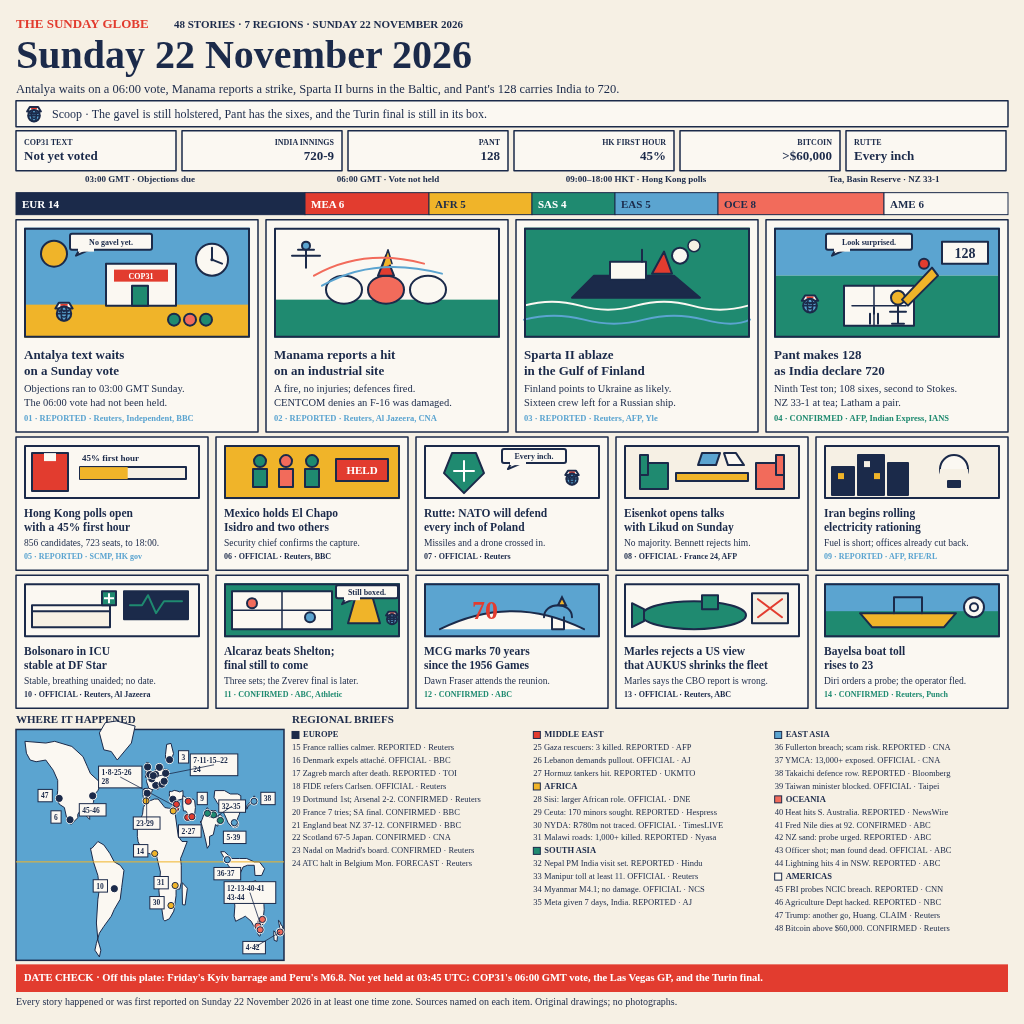
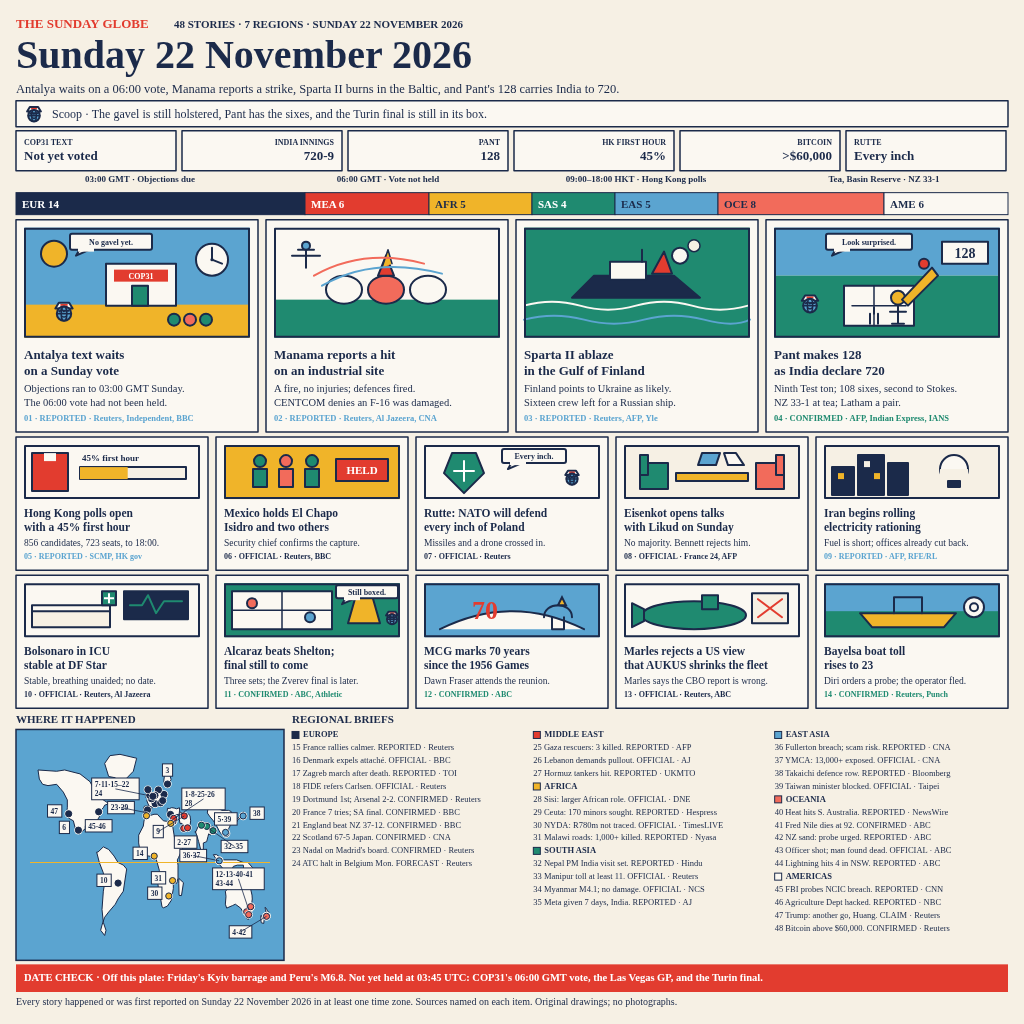
Clip the map inside its padded card and write entry.png from /tmp.
Land, pins, labels and the equator now share the other cards' 8px inset
and a clipPath, so South America and the 4-42 label no longer cross into
DATE CHECK. Chrome screenshots under /tmp, drops the crashing background
flag, and copies entry.png to MAKEFUN_OUTPUT_DIR when the repo is read-only.

Changed region(s): [[0.0, 0.6875, 0.2812, 0.9375]]

diff --git a/poster.html b/poster.html
@@ -144,7 +144,7 @@
 <text x="824" y="697.46" font-family="Inter, "Liberation Sans", sans-serif" font-size="8" font-weight="700" fill="#1F8A70" text-anchor="start" stroke="none">14 · CONFIRMED · Reuters, Punch</text>
 <text x="16" y="723.16" font-family="Inter, "Liberation Sans", sans-serif" font-size="11" font-weight="700" fill="#1B2A4A" text-anchor="start" stroke="none">WHERE IT HAPPENED</text>
 <text x="292" y="723.16" font-family="Inter, "Liberation Sans", sans-serif" font-size="11" font-weight="700" fill="#1B2A4A" text-anchor="start" stroke="none">REGIONAL BRIEFS</text>
-<rect x="16" y="729.46" width="268" height="230.89" fill="#5BA4D0" stroke="#1B2A4A" stroke-width="1.5"/><path d="M24.93,741.34L45.78,743.04L54.71,741.34L71.83,746.44L83,756.62L87.47,766.81L90.44,773.6L97.89,780.39L102.36,783.79L105.33,782.09L108.31,783.79L99.38,787.18L97.89,790.58L94.91,793.97L93.42,802.46L89.7,809.25L89.7,819.44L83,812.65L80.02,810.95L77.79,814.35L77.79,817.74L71.09,824.53L68.11,821.14L66.62,817.74L64.39,807.56L59.18,804.16L56.94,797.37L57.69,790.58L57.69,780.39L53.22,770.21L45.78,760.02L36.1,761.72L30.14,760.02L26.42,753.23L24.93,741.34Z" fill="#FBF8F2" stroke="#1B2A4A" stroke-width="1" stroke-linejoin="round"/><path d="M91.93,848.3L97.89,841.51L103.84,844.91L109.8,853.39L114.27,861.88L120.22,865.28L123.94,870.37L121.71,887.35L120.22,899.23L114.27,909.42L111.29,916.21L103.84,926.4L99.38,933.19L96.4,943.37L94.91,950.16L99.38,956.95L100.87,950.16L97.89,939.98L96.4,923L97.89,899.23L99.38,889.05L97.89,875.46L93.42,861.88L90.44,848.3Z" fill="#FBF8F2" stroke="#1B2A4A" stroke-width="1" stroke-linejoin="round"/><path d="M145.38,777.34L145.91,774.28L146.13,769.19L145.38,765.45L146.58,762.4L148.81,762.74L148.66,767.66L150.15,771.22L151.34,772.75L151.19,774.96L150.45,776.15L148.36,777L146.13,777.17Z" fill="#FBF8F2" stroke="#1B2A4A" stroke-width="1" stroke-linejoin="round"/><path d="M143,790.24L143.15,796.52L144.64,799.07L145.83,800.76L148.66,799.92L150.15,796.01L152.46,789.9L151.94,788.37L148.66,788.2L143.9,788.54L143,790.24Z" fill="#FBF8F2" stroke="#1B2A4A" stroke-width="1" stroke-linejoin="round"/><path d="M146.58,780.39L148.88,777.68L151.19,775.3L152.53,774.62L153.42,772.92L155.06,771.05L156.1,768.68L157.59,769.19L160.57,769.53L164.52,769.19L168.02,769.53L167.87,776.15L166.82,779.03L166.53,783.45L164.29,785.48L162.06,786.16L161.02,785.15L160.12,784.47L159.23,784.81L159.08,787.52L157.74,789.56L156.85,787.18L155.51,787.69L153.87,788.37L152.23,789.73L148.81,788.2L146.58,781.75Z" fill="#FBF8F2" stroke="#1B2A4A" stroke-width="1" stroke-linejoin="round"/><path d="M156.03,769.02L156.4,765.45L158.11,763.75L159.6,766.64L161.17,768.17L159.38,769.19L157.44,769.19L156.4,768.85Z" fill="#FBF8F2" stroke="#1B2A4A" stroke-width="1" stroke-linejoin="round"/><path d="M169.36,793.63L169.5,791.26L171.59,791.6L174.19,790.41L176.95,790.92L179.78,791.94L182.9,790.58L183.2,798.73L177.1,800.42L173.82,800.59L171.74,800.42L169.5,799.41L169.36,793.97Z" fill="#FBF8F2" stroke="#1B2A4A" stroke-width="1" stroke-linejoin="round"/><path d="M137.34,836.42L138.09,841.51L141.07,848.3L142.56,851.7L145.53,853.39L148.51,853.39L152.98,854.58L154.84,854.75L156.55,854.75L157.15,858.49L160.42,872.07L158.93,890.74L159.68,899.23L161.91,909.42L163.4,919.6L164.89,920.96L169.36,918.76L173.82,911.12L174.57,906.02L176.06,895.84L176.06,889.05L179.78,889.05L181.27,882.25L181.27,865.28L180.52,858.49L182.01,855.09L187.22,841.51L182.01,841.51L178.29,836.42L174.57,809.25L172.33,808.4L168.61,808.23L164.89,807.56L158.19,799.07L154.47,799.07L150,800.76L148.51,801.61L145.83,800.76L146.13,802.12L143.3,807.56L142.56,814.35L137.34,826.23L137.34,836.42Z" fill="#FBF8F2" stroke="#1B2A4A" stroke-width="1" stroke-linejoin="round"/><path d="M175.01,809.25L175.46,808.91L175.53,805.52L176.2,804.84L176.65,803.14L177.1,805.18L176.95,808.91L176.35,811.8L175.46,811.63L175.16,809.25Z" fill="#FBF8F2" stroke="#1B2A4A" stroke-width="1" stroke-linejoin="round"/><path d="M182.76,795.67L185.73,797.37L187.97,799.07L190.2,799.07L193.18,799.07L194.67,800.76L195.41,807.56L194.67,814.35L193.18,816.21L190.94,815.7L188.71,815.19L185.73,810.95L183.5,810.95L182.76,805.86L182.76,795.67Z" fill="#FBF8F2" stroke="#1B2A4A" stroke-width="1" stroke-linejoin="round"/><path d="M187.48,818L187.52,817.15L187.71,816.81L187.86,817.32L187.78,818.08L187.56,818.17Z" fill="#FBF8F2" stroke="#1B2A4A" stroke-width="1" stroke-linejoin="round"/><path d="M200.62,821.14L202.11,826.23L204.34,834.72L207.32,848.3L209.56,844.91L209.56,836.42L213.28,834.72L214.77,827.93L215.51,824.53L217.74,826.23L218.49,822.83L217,817.74L212.53,816.04L209.56,810.95L207.32,807.56L205.09,810.95L202.11,819.44L200.62,822.83Z" fill="#FBF8F2" stroke="#1B2A4A" stroke-width="1" stroke-linejoin="round"/><path d="M218.12,823.68L219.23,824.53L221.62,824.19L222.21,820.29L221.84,816.04L219.98,814.35L218.49,816.04L218.34,820.29Z" fill="#FBF8F2" stroke="#1B2A4A" stroke-width="1" stroke-linejoin="round"/><path d="M209.56,817.06L209.56,810.44L215.81,810.61L215.81,816.89L212.53,817.4Z" fill="#FBF8F2" stroke="#1B2A4A" stroke-width="1" stroke-linejoin="round"/><path d="M214.77,790.58L224.44,790.58L230.4,793.97L237.84,793.97L240.82,795.67L240.82,807.56L239.33,814.35L237.84,817.74L236.36,822.83L235.31,823.51L234.12,825.21L231.14,826.23L228.17,822.83L224.44,814.35L220.72,807.56L217,802.46L214.02,797.37Z" fill="#FBF8F2" stroke="#1B2A4A" stroke-width="1" stroke-linejoin="round"/><path d="M234.76,824.28L234.9,823.77L235.2,823.68L235.28,824.19L235.05,824.53L234.83,824.45Z" fill="#FBF8F2" stroke="#1B2A4A" stroke-width="1" stroke-linejoin="round"/><path d="M246.78,809.25L248.27,805.86L250.5,804.16L252.73,802.46L253.63,803.14L254.37,802.12L255.12,801.78L254.97,796.52L253.85,796.01L253.11,799.07L251.24,800.76L249.76,802.46L248.27,804.16L246.78,805.86Z" fill="#FBF8F2" stroke="#1B2A4A" stroke-width="1" stroke-linejoin="round"/><path d="M227.09,859.88L227.12,859.37L227.39,859.37L227.5,859.81L227.31,859.93Z" fill="#FBF8F2" stroke="#1B2A4A" stroke-width="1" stroke-linejoin="round"/><path d="M234.12,899.23L240.82,892.44L246.03,885.65L251.24,882.25L255.71,880.56L257.94,885.65L260.92,889.05L263.9,904.33L264.2,909.42L263.3,917.91L262.86,919.94L262.11,925.04L260.18,926.74L257.94,927.75L254.22,927.07L251.24,921.3L245.29,916.21L242.31,917.91L235.61,921.3L234.12,916.21L234.87,906.02Z" fill="#FBF8F2" stroke="#1B2A4A" stroke-width="1" stroke-linejoin="round"/><path d="M257.65,930.98L260.33,930.81L260.18,935.9L259.06,936.07L257.65,933.53Z" fill="#FBF8F2" stroke="#1B2A4A" stroke-width="1" stroke-linejoin="round"/><path d="M259.84,929.2L260.51,929.2L260.55,930.39L259.88,930.47Z" fill="#FBF8F2" stroke="#1B2A4A" stroke-width="1" stroke-linejoin="round"/><path d="M278.42,920.28L279.91,921.64L281.39,925.55L282.66,926.06L282.51,931.83L281.17,932.51L279.83,932.42L279.98,928.94L278.94,923.34Z" fill="#FBF8F2" stroke="#1B2A4A" stroke-width="1" stroke-linejoin="round"/><path d="M273.88,930.81L275.22,932.34L277.45,936.58L277,941.34L274.17,940.32L273.73,934.88Z" fill="#FBF8F2" stroke="#1B2A4A" stroke-width="1" stroke-linejoin="round"/><path d="M99.38,732.86L105.33,722.67L116.5,720.97L135.11,726.06L131.39,743.04L117.24,760.02L111.29,751.53L103.84,749.83L99.38,732.86Z" fill="#FBF8F2" stroke="#1B2A4A" stroke-width="1" stroke-linejoin="round"/><path d="M165.63,759.09L168.24,759.2L171.59,758.83L173.52,753.57L170.99,743.38L166.68,744.4L165.48,754.59Z" fill="#FBF8F2" stroke="#1B2A4A" stroke-width="1" stroke-linejoin="round"/><path d="M182.23,882.59L187.37,888.2L185.14,905L182.46,904.66L182.16,889.05Z" fill="#FBF8F2" stroke="#1B2A4A" stroke-width="1" stroke-linejoin="round"/><path d="M220.72,851.7L228.17,865.28L235.61,875.46L239.33,875.46L243.06,866.98L247.52,865.28L254.22,865.28L254.97,875.46L261.67,875.46L264.64,868.67L259.43,861.88L254.22,861.88L246.78,858.49L239.33,858.49L231.89,858.49L224.44,851.7L220.72,851.7Z" fill="#FBF8F2" stroke="#1B2A4A" stroke-width="1" stroke-linejoin="round"/><path d="M16 861.88 H284" stroke="#F0B429" stroke-width="1" fill="none"/><circle cx="172.85" cy="799.24" r="4.2" fill="#FBF8F2" stroke="none"/><circle cx="172.85" cy="799.24" r="3.1" fill="#1B2A4A" stroke="#1B2A4A" stroke-width="1"/><circle cx="187.67" cy="817.4" r="4.2" fill="#FBF8F2" stroke="none"/><circle cx="187.67" cy="817.4" r="3.1" fill="#E23C2F" stroke="#1B2A4A" stroke-width="1"/><circle cx="169.58" cy="759.68" r="4.2" fill="#FBF8F2" stroke="none"/><circle cx="169.58" cy="759.68" r="3.1" fill="#1B2A4A" stroke="#1B2A4A" stroke-width="1"/><circle cx="280.13" cy="932" r="4.2" fill="#FBF8F2" stroke="none"/><circle cx="280.13" cy="932" r="3.1" fill="#F26B5B" stroke="#1B2A4A" stroke-width="1"/><circle cx="235.02" cy="824.02" r="4.2" fill="#FBF8F2" stroke="none"/><circle cx="235.02" cy="824.02" r="3.1" fill="#5BA4D0" stroke="#1B2A4A" stroke-width="1"/><circle cx="70.05" cy="819.78" r="4.2" fill="#FBF8F2" stroke="none"/><circle cx="70.05" cy="819.78" r="3.1" fill="#1B2A4A" stroke="#1B2A4A" stroke-width="1"/><circle cx="165.63" cy="773.26" r="4.2" fill="#FBF8F2" stroke="none"/><circle cx="165.63" cy="773.26" r="3.1" fill="#1B2A4A" stroke="#1B2A4A" stroke-width="1"/><circle cx="176.2" cy="807.89" r="4.2" fill="#FBF8F2" stroke="none"/><circle cx="176.2" cy="807.89" r="3.1" fill="#E23C2F" stroke="#1B2A4A" stroke-width="1"/><circle cx="188.26" cy="801.27" r="4.2" fill="#FBF8F2" stroke="none"/><circle cx="188.26" cy="801.27" r="3.1" fill="#E23C2F" stroke="#1B2A4A" stroke-width="1"/><circle cx="114.34" cy="888.71" r="4.2" fill="#FBF8F2" stroke="none"/><circle cx="114.34" cy="888.71" r="3.1" fill="#1B2A4A" stroke="#1B2A4A" stroke-width="1"/><circle cx="155.73" cy="785.32" r="4.2" fill="#FBF8F2" stroke="none"/><circle cx="155.73" cy="785.32" r="3.1" fill="#1B2A4A" stroke="#1B2A4A" stroke-width="1"/><circle cx="257.94" cy="926.06" r="4.2" fill="#FBF8F2" stroke="none"/><circle cx="257.94" cy="926.06" r="3.1" fill="#F26B5B" stroke="#1B2A4A" stroke-width="1"/><circle cx="261" cy="921.81" r="4.2" fill="#FBF8F2" stroke="none"/><circle cx="261" cy="921.81" r="3.1" fill="#F26B5B" stroke="#1B2A4A" stroke-width="1"/><circle cx="154.69" cy="853.56" r="4.2" fill="#FBF8F2" stroke="none"/><circle cx="154.69" cy="853.56" r="3.1" fill="#F0B429" stroke="#1B2A4A" stroke-width="1"/><circle cx="151.71" cy="778.86" r="4.2" fill="#FBF8F2" stroke="none"/><circle cx="151.71" cy="778.86" r="3.1" fill="#1B2A4A" stroke="#1B2A4A" stroke-width="1"/><circle cx="159.38" cy="767.32" r="4.2" fill="#FBF8F2" stroke="none"/><circle cx="159.38" cy="767.32" r="3.1" fill="#1B2A4A" stroke="#1B2A4A" stroke-width="1"/><circle cx="161.91" cy="784.13" r="4.2" fill="#FBF8F2" stroke="none"/><circle cx="161.91" cy="784.13" r="3.1" fill="#1B2A4A" stroke="#1B2A4A" stroke-width="1"/><circle cx="164.14" cy="781.24" r="4.2" fill="#FBF8F2" stroke="none"/><circle cx="164.14" cy="781.24" r="3.1" fill="#1B2A4A" stroke="#1B2A4A" stroke-width="1"/><circle cx="155.58" cy="774.45" r="4.2" fill="#FBF8F2" stroke="none"/><circle cx="155.58" cy="774.45" r="3.1" fill="#1B2A4A" stroke="#1B2A4A" stroke-width="1"/><circle cx="151.71" cy="778.86" r="4.2" fill="#FBF8F2" stroke="none"/><circle cx="151.71" cy="778.86" r="3.1" fill="#1B2A4A" stroke="#1B2A4A" stroke-width="1"/><circle cx="149.78" cy="774.45" r="4.2" fill="#FBF8F2" stroke="none"/><circle cx="149.78" cy="774.45" r="3.1" fill="#1B2A4A" stroke="#1B2A4A" stroke-width="1"/><circle cx="147.62" cy="766.98" r="4.2" fill="#FBF8F2" stroke="none"/><circle cx="147.62" cy="766.98" r="3.1" fill="#1B2A4A" stroke="#1B2A4A" stroke-width="1"/><circle cx="147.25" cy="793.29" r="4.2" fill="#FBF8F2" stroke="none"/><circle cx="147.25" cy="793.29" r="3.1" fill="#1B2A4A" stroke="#1B2A4A" stroke-width="1"/><circle cx="153.28" cy="775.64" r="4.2" fill="#FBF8F2" stroke="none"/><circle cx="153.28" cy="775.64" r="3.1" fill="#1B2A4A" stroke="#1B2A4A" stroke-width="1"/><circle cx="175.68" cy="808.4" r="4.2" fill="#FBF8F2" stroke="none"/><circle cx="175.68" cy="808.4" r="3.1" fill="#E23C2F" stroke="#1B2A4A" stroke-width="1"/><circle cx="176.43" cy="804.33" r="4.2" fill="#FBF8F2" stroke="none"/><circle cx="176.43" cy="804.33" r="3.1" fill="#E23C2F" stroke="#1B2A4A" stroke-width="1"/><circle cx="191.91" cy="816.72" r="4.2" fill="#FBF8F2" stroke="none"/><circle cx="191.91" cy="816.72" r="3.1" fill="#E23C2F" stroke="#1B2A4A" stroke-width="1"/><circle cx="173.23" cy="810.95" r="4.2" fill="#FBF8F2" stroke="none"/><circle cx="173.23" cy="810.95" r="3.1" fill="#F0B429" stroke="#1B2A4A" stroke-width="1"/><circle cx="146.05" cy="800.93" r="4.2" fill="#FBF8F2" stroke="none"/><circle cx="146.05" cy="800.93" r="3.1" fill="#F0B429" stroke="#1B2A4A" stroke-width="1"/><circle cx="170.99" cy="905.51" r="4.2" fill="#FBF8F2" stroke="none"/><circle cx="170.99" cy="905.51" r="3.1" fill="#F0B429" stroke="#1B2A4A" stroke-width="1"/><circle cx="175.16" cy="885.48" r="4.2" fill="#FBF8F2" stroke="none"/><circle cx="175.16" cy="885.48" r="3.1" fill="#F0B429" stroke="#1B2A4A" stroke-width="1"/><circle cx="213.5" cy="814.86" r="4.2" fill="#FBF8F2" stroke="none"/><circle cx="213.5" cy="814.86" r="3.1" fill="#1F8A70" stroke="#1B2A4A" stroke-width="1"/><circle cx="219.98" cy="820.63" r="4.2" fill="#FBF8F2" stroke="none"/><circle cx="219.98" cy="820.63" r="3.1" fill="#1F8A70" stroke="#1B2A4A" stroke-width="1"/><circle cx="220.42" cy="820.46" r="4.2" fill="#FBF8F2" stroke="none"/><circle cx="220.42" cy="820.46" r="3.1" fill="#1F8A70" stroke="#1B2A4A" stroke-width="1"/><circle cx="207.47" cy="813.33" r="4.2" fill="#FBF8F2" stroke="none"/><circle cx="207.47" cy="813.33" r="3.1" fill="#1F8A70" stroke="#1B2A4A" stroke-width="1"/><circle cx="227.27" cy="859.59" r="4.2" fill="#FBF8F2" stroke="none"/><circle cx="227.27" cy="859.59" r="3.1" fill="#5BA4D0" stroke="#1B2A4A" stroke-width="1"/><circle cx="227.31" cy="859.68" r="4.2" fill="#FBF8F2" stroke="none"/><circle cx="227.31" cy="859.68" r="3.1" fill="#5BA4D0" stroke="#1B2A4A" stroke-width="1"/><circle cx="254" cy="801.27" r="4.2" fill="#FBF8F2" stroke="none"/><circle cx="254" cy="801.27" r="3.1" fill="#5BA4D0" stroke="#1B2A4A" stroke-width="1"/><circle cx="234.35" cy="822.66" r="4.2" fill="#FBF8F2" stroke="none"/><circle cx="234.35" cy="822.66" r="3.1" fill="#5BA4D0" stroke="#1B2A4A" stroke-width="1"/><circle cx="257.94" cy="926.06" r="4.2" fill="#FBF8F2" stroke="none"/><circle cx="257.94" cy="926.06" r="3.1" fill="#F26B5B" stroke="#1B2A4A" stroke-width="1"/><circle cx="262.56" cy="919.43" r="4.2" fill="#FBF8F2" stroke="none"/><circle cx="262.56" cy="919.43" r="3.1" fill="#F26B5B" stroke="#1B2A4A" stroke-width="1"/><circle cx="280.13" cy="932" r="4.2" fill="#FBF8F2" stroke="none"/><circle cx="280.13" cy="932" r="3.1" fill="#F26B5B" stroke="#1B2A4A" stroke-width="1"/><circle cx="260.18" cy="929.79" r="4.2" fill="#FBF8F2" stroke="none"/><circle cx="260.18" cy="929.79" r="3.1" fill="#F26B5B" stroke="#1B2A4A" stroke-width="1"/><circle cx="262.41" cy="919.43" r="4.2" fill="#FBF8F2" stroke="none"/><circle cx="262.41" cy="919.43" r="3.1" fill="#F26B5B" stroke="#1B2A4A" stroke-width="1"/><circle cx="92.68" cy="795.84" r="4.2" fill="#FBF8F2" stroke="none"/><circle cx="92.68" cy="795.84" r="3.1" fill="#1B2A4A" stroke="#1B2A4A" stroke-width="1"/><circle cx="92.68" cy="795.84" r="4.2" fill="#FBF8F2" stroke="none"/><circle cx="92.68" cy="795.84" r="3.1" fill="#1B2A4A" stroke="#1B2A4A" stroke-width="1"/><circle cx="59.18" cy="798.39" r="4.2" fill="#FBF8F2" stroke="none"/><circle cx="59.18" cy="798.39" r="3.1" fill="#1B2A4A" stroke="#1B2A4A" stroke-width="1"/><rect x="98.55" y="766.12" width="43.35" height="21.75" fill="#FBF8F2" stroke="#1B2A4A" stroke-width="1"/><path d="M174.88 806.16 L120.22 777" stroke="#1B2A4A" stroke-width="0.8" fill="none"/><text x="101.55" y="775.06" font-family="Inter, "Liberation Sans", sans-serif" font-size="7.5" font-weight="700" fill="#1B2A4A" text-anchor="start" stroke="none">1·8·25·26</text><text x="101.55" y="784.43" font-family="Inter, "Liberation Sans", sans-serif" font-size="7.5" font-weight="700" fill="#1B2A4A" text-anchor="start" stroke="none">28</text><rect x="178.49" y="824.87" width="22.6" height="12.38" fill="#FBF8F2" stroke="#1B2A4A" stroke-width="1"/><text x="181.49" y="833.81" font-family="Inter, "Liberation Sans", sans-serif" font-size="7.5" font-weight="700" fill="#1B2A4A" text-anchor="start" stroke="none">2·27</text><rect x="178.5" y="750.69" width="10.15" height="12.38" fill="#FBF8F2" stroke="#1B2A4A" stroke-width="1"/><text x="181.5" y="759.63" font-family="Inter, "Liberation Sans", sans-serif" font-size="7.5" font-weight="700" fill="#1B2A4A" text-anchor="start" stroke="none">3</text><rect x="242.83" y="941.41" width="22.6" height="12.38" fill="#FBF8F2" stroke="#1B2A4A" stroke-width="1"/><path d="M280.13 932 L254.13 947.6" stroke="#1B2A4A" stroke-width="0.8" fill="none"/><text x="245.83" y="950.35" font-family="Inter, "Liberation Sans", sans-serif" font-size="7.5" font-weight="700" fill="#1B2A4A" text-anchor="start" stroke="none">4·42</text><rect x="223.38" y="831.16" width="22.6" height="12.38" fill="#FBF8F2" stroke="#1B2A4A" stroke-width="1"/><text x="226.38" y="840.09" font-family="Inter, "Liberation Sans", sans-serif" font-size="7.5" font-weight="700" fill="#1B2A4A" text-anchor="start" stroke="none">5·39</text><rect x="50.97" y="810.79" width="10.15" height="12.38" fill="#FBF8F2" stroke="#1B2A4A" stroke-width="1"/><text x="53.97" y="819.73" font-family="Inter, "Liberation Sans", sans-serif" font-size="7.5" font-weight="700" fill="#1B2A4A" text-anchor="start" stroke="none">6</text><rect x="190.29" y="753.93" width="47.5" height="21.75" fill="#FBF8F2" stroke="#1B2A4A" stroke-width="1"/><path d="M156.04 776.41 L214.04 764.81" stroke="#1B2A4A" stroke-width="0.8" fill="none"/><text x="193.29" y="762.87" font-family="Inter, "Liberation Sans", sans-serif" font-size="7.5" font-weight="700" fill="#1B2A4A" text-anchor="start" stroke="none">7·11·15–22</text><text x="193.29" y="772.25" font-family="Inter, "Liberation Sans", sans-serif" font-size="7.5" font-weight="700" fill="#1B2A4A" text-anchor="start" stroke="none">24</text><rect x="197.19" y="792.29" width="10.15" height="12.38" fill="#FBF8F2" stroke="#1B2A4A" stroke-width="1"/><text x="200.19" y="801.22" font-family="Inter, "Liberation Sans", sans-serif" font-size="7.5" font-weight="700" fill="#1B2A4A" text-anchor="start" stroke="none">9</text><rect x="93.19" y="879.72" width="14.3" height="12.38" fill="#FBF8F2" stroke="#1B2A4A" stroke-width="1"/><text x="96.19" y="888.66" font-family="Inter, "Liberation Sans", sans-serif" font-size="7.5" font-weight="700" fill="#1B2A4A" text-anchor="start" stroke="none">10</text><rect x="224.11" y="881.69" width="51.65" height="21.75" fill="#FBF8F2" stroke="#1B2A4A" stroke-width="1"/><path d="M260.34 923.76 L249.94 892.56" stroke="#1B2A4A" stroke-width="0.8" fill="none"/><text x="227.11" y="890.63" font-family="Inter, "Liberation Sans", sans-serif" font-size="7.5" font-weight="700" fill="#1B2A4A" text-anchor="start" stroke="none">12·13·40·41</text><text x="227.11" y="900" font-family="Inter, "Liberation Sans", sans-serif" font-size="7.5" font-weight="700" fill="#1B2A4A" text-anchor="start" stroke="none">43·44</text><rect x="133.54" y="844.58" width="14.3" height="12.38" fill="#FBF8F2" stroke="#1B2A4A" stroke-width="1"/><text x="136.54" y="853.51" font-family="Inter, "Liberation Sans", sans-serif" font-size="7.5" font-weight="700" fill="#1B2A4A" text-anchor="start" stroke="none">14</text><rect x="133.28" y="816.93" width="26.75" height="12.38" fill="#FBF8F2" stroke="#1B2A4A" stroke-width="1"/><path d="M146.65 797.11 L146.65 823.11" stroke="#1B2A4A" stroke-width="0.8" fill="none"/><text x="136.28" y="825.86" font-family="Inter, "Liberation Sans", sans-serif" font-size="7.5" font-weight="700" fill="#1B2A4A" text-anchor="start" stroke="none">23·29</text><rect x="149.84" y="896.53" width="14.3" height="12.38" fill="#FBF8F2" stroke="#1B2A4A" stroke-width="1"/><text x="152.84" y="905.46" font-family="Inter, "Liberation Sans", sans-serif" font-size="7.5" font-weight="700" fill="#1B2A4A" text-anchor="start" stroke="none">30</text><rect x="154.01" y="876.49" width="14.3" height="12.38" fill="#FBF8F2" stroke="#1B2A4A" stroke-width="1"/><text x="157.01" y="885.43" font-family="Inter, "Liberation Sans", sans-serif" font-size="7.5" font-weight="700" fill="#1B2A4A" text-anchor="start" stroke="none">31</text><rect x="218.77" y="799.93" width="26.75" height="12.38" fill="#FBF8F2" stroke="#1B2A4A" stroke-width="1"/><path d="M215.34 817.32 L232.14 806.12" stroke="#1B2A4A" stroke-width="0.8" fill="none"/><text x="221.77" y="808.87" font-family="Inter, "Liberation Sans", sans-serif" font-size="7.5" font-weight="700" fill="#1B2A4A" text-anchor="start" stroke="none">32–35</text><rect x="213.92" y="867.45" width="26.75" height="12.38" fill="#FBF8F2" stroke="#1B2A4A" stroke-width="1"/><text x="216.92" y="876.38" font-family="Inter, "Liberation Sans", sans-serif" font-size="7.5" font-weight="700" fill="#1B2A4A" text-anchor="start" stroke="none">36·37</text><rect x="260.85" y="792.29" width="14.3" height="12.38" fill="#FBF8F2" stroke="#1B2A4A" stroke-width="1"/><text x="263.85" y="801.22" font-family="Inter, "Liberation Sans", sans-serif" font-size="7.5" font-weight="700" fill="#1B2A4A" text-anchor="start" stroke="none">38</text><rect x="79.3" y="803.65" width="26.75" height="12.38" fill="#FBF8F2" stroke="#1B2A4A" stroke-width="1"/><text x="82.3" y="812.59" font-family="Inter, "Liberation Sans", sans-serif" font-size="7.5" font-weight="700" fill="#1B2A4A" text-anchor="start" stroke="none">45·46</text><rect x="38.03" y="789.4" width="14.3" height="12.38" fill="#FBF8F2" stroke="#1B2A4A" stroke-width="1"/><text x="41.03" y="798.34" font-family="Inter, "Liberation Sans", sans-serif" font-size="7.5" font-weight="700" fill="#1B2A4A" text-anchor="start" stroke="none">47</text>
+<defs><clipPath id="mapclip"><rect x="24" y="737.46" width="252" height="214.89"/></clipPath></defs><rect x="16" y="729.46" width="268" height="230.89" fill="#5BA4D0" stroke="#1B2A4A" stroke-width="1.5"/><g clip-path="url(#mapclip)"><path d="M38,769.97L56.67,771.27L64.67,769.97L80,773.88L90,781.7L94,789.52L96.67,794.73L103.33,799.94L107.33,802.55L110,801.25L112.67,802.55L104.67,805.16L103.33,807.76L100.67,810.37L99.33,816.89L96,822.1L96,829.92L90,824.7L87.33,823.4L85.33,826.01L85.33,828.61L79.33,833.83L76.67,831.22L75.33,828.61L73.33,820.79L68.67,818.19L66.67,812.98L67.33,807.76L67.33,799.94L63.33,792.12L56.67,784.3L48,785.61L42.67,784.3L39.33,779.09L38,769.97Z" fill="#FBF8F2" stroke="#1B2A4A" stroke-width="1" stroke-linejoin="round"/><path d="M98,852.07L103.33,846.86L108.67,849.47L114,855.98L118,862.5L123.33,865.11L126.67,869.02L124.67,882.05L123.33,891.17L118,898.99L115.33,904.2L108.67,912.02L104.67,917.24L102,925.05L100.67,930.27L104.67,935.48L106,930.27L103.33,922.45L102,909.42L103.33,891.17L104.67,883.35L103.33,872.92L99.33,862.5L96.67,852.07Z" fill="#FBF8F2" stroke="#1B2A4A" stroke-width="1" stroke-linejoin="round"/><path d="M145.87,797.6L146.33,795.25L146.53,791.34L145.87,788.47L146.93,786.13L148.93,786.39L148.8,790.17L150.13,792.91L151.2,794.08L151.07,795.77L150.4,796.68L148.53,797.34L146.53,797.47Z" fill="#FBF8F2" stroke="#1B2A4A" stroke-width="1" stroke-linejoin="round"/><path d="M143.73,807.5L143.87,812.32L145.2,814.28L146.27,815.58L148.8,814.93L150.13,811.93L152.2,807.24L151.73,806.07L148.8,805.94L144.53,806.2L143.73,807.5Z" fill="#FBF8F2" stroke="#1B2A4A" stroke-width="1" stroke-linejoin="round"/><path d="M146.93,799.94L149,797.86L151.07,796.03L152.27,795.51L153.07,794.21L154.53,792.77L155.47,790.95L156.8,791.34L159.47,791.6L163,791.34L166.13,791.6L166,796.68L165.07,798.9L164.8,802.29L162.8,803.85L160.8,804.37L159.87,803.59L159.07,803.07L158.27,803.33L158.13,805.42L156.93,806.98L156.13,805.16L154.93,805.55L153.47,806.07L152,807.11L148.93,805.94L146.93,800.99Z" fill="#FBF8F2" stroke="#1B2A4A" stroke-width="1" stroke-linejoin="round"/><path d="M155.4,791.21L155.73,788.47L157.27,787.17L158.6,789.39L160,790.56L158.4,791.34L156.67,791.34L155.73,791.08Z" fill="#FBF8F2" stroke="#1B2A4A" stroke-width="1" stroke-linejoin="round"/><path d="M167.33,810.11L167.47,808.28L169.33,808.54L171.67,807.63L174.13,808.02L176.67,808.8L179.47,807.76L179.73,814.02L174.27,815.32L171.33,815.45L169.47,815.32L167.47,814.54L167.33,810.37Z" fill="#FBF8F2" stroke="#1B2A4A" stroke-width="1" stroke-linejoin="round"/><path d="M138.67,842.95L139.33,846.86L142,852.07L143.33,854.68L146,855.98L148.67,855.98L152.67,856.89L154.33,857.03L155.87,857.03L156.4,859.89L159.33,870.32L158,884.65L158.67,891.17L160.67,898.99L162,906.81L163.33,907.85L167.33,906.16L171.33,900.29L172,896.38L173.33,888.56L173.33,883.35L176.67,883.35L178,878.14L178,865.11L177.33,859.89L178.67,857.29L183.33,846.86L178.67,846.86L175.33,842.95L172,822.1L170,821.45L166.67,821.32L163.33,820.79L157.33,814.28L154,814.28L150,815.58L148.67,816.23L146.27,815.58L146.53,816.62L144,820.79L143.33,826.01L138.67,835.13L138.67,842.95Z" fill="#FBF8F2" stroke="#1B2A4A" stroke-width="1" stroke-linejoin="round"/><path d="M172.4,822.1L172.8,821.84L172.87,819.23L173.47,818.71L173.87,817.41L174.27,818.97L174.13,821.84L173.6,824.05L172.8,823.92L172.53,822.1Z" fill="#FBF8F2" stroke="#1B2A4A" stroke-width="1" stroke-linejoin="round"/><path d="M179.33,811.67L182,812.98L184,814.28L186,814.28L188.67,814.28L190,815.58L190.67,820.79L190,826.01L188.67,827.44L186.67,827.05L184.67,826.66L182,823.4L180,823.4L179.33,819.49L179.33,811.67Z" fill="#FBF8F2" stroke="#1B2A4A" stroke-width="1" stroke-linejoin="round"/><path d="M183.57,828.81L183.6,828.16L183.77,827.9L183.9,828.29L183.83,828.88L183.63,828.94Z" fill="#FBF8F2" stroke="#1B2A4A" stroke-width="1" stroke-linejoin="round"/><path d="M195.33,831.22L196.67,835.13L198.67,841.65L201.33,852.07L203.33,849.47L203.33,842.95L206.67,841.65L208,836.43L208.67,833.83L210.67,835.13L211.33,832.52L210,828.61L206,827.31L203.33,823.4L201.33,820.79L199.33,823.4L196.67,829.92L195.33,832.52Z" fill="#FBF8F2" stroke="#1B2A4A" stroke-width="1" stroke-linejoin="round"/><path d="M211,833.18L212,833.83L214.13,833.57L214.67,830.57L214.33,827.31L212.67,826.01L211.33,827.31L211.2,830.57Z" fill="#FBF8F2" stroke="#1B2A4A" stroke-width="1" stroke-linejoin="round"/><path d="M203.33,828.09L203.33,823.01L208.93,823.14L208.93,827.96L206,828.35Z" fill="#FBF8F2" stroke="#1B2A4A" stroke-width="1" stroke-linejoin="round"/><path d="M208,807.76L216.67,807.76L222,810.37L228.67,810.37L231.33,811.67L231.33,820.79L230,826.01L228.67,828.61L227.33,832.52L226.4,833.05L225.33,834.35L222.67,835.13L220,832.52L216.67,826.01L213.33,820.79L210,816.89L207.33,812.98Z" fill="#FBF8F2" stroke="#1B2A4A" stroke-width="1" stroke-linejoin="round"/><path d="M225.9,833.63L226.03,833.24L226.3,833.18L226.37,833.57L226.17,833.83L225.97,833.76Z" fill="#FBF8F2" stroke="#1B2A4A" stroke-width="1" stroke-linejoin="round"/><path d="M236.67,822.1L238,819.49L240,818.19L242,816.89L242.8,817.41L243.47,816.62L244.13,816.36L244,812.32L243,811.93L242.33,814.28L240.67,815.58L239.33,816.89L238,818.19L236.67,819.49Z" fill="#FBF8F2" stroke="#1B2A4A" stroke-width="1" stroke-linejoin="round"/><path d="M219.03,860.96L219.07,860.57L219.3,860.57L219.4,860.91L219.23,861Z" fill="#FBF8F2" stroke="#1B2A4A" stroke-width="1" stroke-linejoin="round"/><path d="M225.33,891.17L231.33,885.96L236,880.74L240.67,878.14L244.67,876.83L246.67,880.74L249.33,883.35L252,895.08L252.27,898.99L251.47,905.51L251.07,907.07L250.4,910.98L248.67,912.28L246.67,913.06L243.33,912.54L240.67,908.11L235.33,904.2L232.67,905.51L226.67,908.11L225.33,904.2L226,896.38Z" fill="#FBF8F2" stroke="#1B2A4A" stroke-width="1" stroke-linejoin="round"/><path d="M246.4,915.54L248.8,915.41L248.67,919.32L247.67,919.45L246.4,917.5Z" fill="#FBF8F2" stroke="#1B2A4A" stroke-width="1" stroke-linejoin="round"/><path d="M248.37,914.17L248.97,914.17L249,915.09L248.4,915.15Z" fill="#FBF8F2" stroke="#1B2A4A" stroke-width="1" stroke-linejoin="round"/><path d="M265,907.33L266.33,908.37L267.67,911.37L268.8,911.76L268.67,916.19L267.47,916.71L266.27,916.65L266.4,913.98L265.47,909.68Z" fill="#FBF8F2" stroke="#1B2A4A" stroke-width="1" stroke-linejoin="round"/><path d="M260.93,915.41L262.13,916.58L264.13,919.84L263.73,923.49L261.2,922.71L260.8,918.54Z" fill="#FBF8F2" stroke="#1B2A4A" stroke-width="1" stroke-linejoin="round"/><path d="M104.67,763.45L110,755.63L120,754.33L136.67,758.24L133.33,771.27L120.67,784.3L115.33,777.79L108.67,776.48L104.67,763.45Z" fill="#FBF8F2" stroke="#1B2A4A" stroke-width="1" stroke-linejoin="round"/><path d="M164,783.59L166.33,783.68L169.33,783.39L171.07,779.35L168.8,771.53L164.93,772.31L163.87,780.13Z" fill="#FBF8F2" stroke="#1B2A4A" stroke-width="1" stroke-linejoin="round"/><path d="M178.87,878.4L183.47,882.7L181.47,895.6L179.07,895.34L178.8,883.35Z" fill="#FBF8F2" stroke="#1B2A4A" stroke-width="1" stroke-linejoin="round"/><path d="M213.33,854.68L220,865.11L226.67,872.92L230,872.92L233.33,866.41L237.33,865.11L243.33,865.11L244,872.92L250,872.92L252.67,867.71L248,862.5L243.33,862.5L236.67,859.89L230,859.89L223.33,859.89L216.67,854.68L213.33,854.68Z" fill="#FBF8F2" stroke="#1B2A4A" stroke-width="1" stroke-linejoin="round"/><path d="M30 862.5 H270" stroke="#F0B429" stroke-width="1" fill="none"/><circle cx="170.47" cy="814.41" r="4.2" fill="#FBF8F2" stroke="none"/><circle cx="170.47" cy="814.41" r="3.1" fill="#1B2A4A" stroke="#1B2A4A" stroke-width="1"/><circle cx="183.73" cy="828.35" r="4.2" fill="#FBF8F2" stroke="none"/><circle cx="183.73" cy="828.35" r="3.1" fill="#E23C2F" stroke="#1B2A4A" stroke-width="1"/><circle cx="167.53" cy="784.04" r="4.2" fill="#FBF8F2" stroke="none"/><circle cx="167.53" cy="784.04" r="3.1" fill="#1B2A4A" stroke="#1B2A4A" stroke-width="1"/><circle cx="266.53" cy="916.32" r="4.2" fill="#FBF8F2" stroke="none"/><circle cx="266.53" cy="916.32" r="3.1" fill="#F26B5B" stroke="#1B2A4A" stroke-width="1"/><circle cx="226.13" cy="833.44" r="4.2" fill="#FBF8F2" stroke="none"/><circle cx="226.13" cy="833.44" r="3.1" fill="#5BA4D0" stroke="#1B2A4A" stroke-width="1"/><circle cx="78.4" cy="830.18" r="4.2" fill="#FBF8F2" stroke="none"/><circle cx="78.4" cy="830.18" r="3.1" fill="#1B2A4A" stroke="#1B2A4A" stroke-width="1"/><circle cx="164" cy="794.47" r="4.2" fill="#FBF8F2" stroke="none"/><circle cx="164" cy="794.47" r="3.1" fill="#1B2A4A" stroke="#1B2A4A" stroke-width="1"/><circle cx="173.47" cy="821.06" r="4.2" fill="#FBF8F2" stroke="none"/><circle cx="173.47" cy="821.06" r="3.1" fill="#E23C2F" stroke="#1B2A4A" stroke-width="1"/><circle cx="184.27" cy="815.97" r="4.2" fill="#FBF8F2" stroke="none"/><circle cx="184.27" cy="815.97" r="3.1" fill="#E23C2F" stroke="#1B2A4A" stroke-width="1"/><circle cx="118.07" cy="883.09" r="4.2" fill="#FBF8F2" stroke="none"/><circle cx="118.07" cy="883.09" r="3.1" fill="#1B2A4A" stroke="#1B2A4A" stroke-width="1"/><circle cx="155.13" cy="803.72" r="4.2" fill="#FBF8F2" stroke="none"/><circle cx="155.13" cy="803.72" r="3.1" fill="#1B2A4A" stroke="#1B2A4A" stroke-width="1"/><circle cx="246.67" cy="911.76" r="4.2" fill="#FBF8F2" stroke="none"/><circle cx="246.67" cy="911.76" r="3.1" fill="#F26B5B" stroke="#1B2A4A" stroke-width="1"/><circle cx="249.4" cy="908.5" r="4.2" fill="#FBF8F2" stroke="none"/><circle cx="249.4" cy="908.5" r="3.1" fill="#F26B5B" stroke="#1B2A4A" stroke-width="1"/><circle cx="154.2" cy="856.11" r="4.2" fill="#FBF8F2" stroke="none"/><circle cx="154.2" cy="856.11" r="3.1" fill="#F0B429" stroke="#1B2A4A" stroke-width="1"/><circle cx="151.53" cy="798.77" r="4.2" fill="#FBF8F2" stroke="none"/><circle cx="151.53" cy="798.77" r="3.1" fill="#1B2A4A" stroke="#1B2A4A" stroke-width="1"/><circle cx="158.4" cy="789.91" r="4.2" fill="#FBF8F2" stroke="none"/><circle cx="158.4" cy="789.91" r="3.1" fill="#1B2A4A" stroke="#1B2A4A" stroke-width="1"/><circle cx="160.67" cy="802.81" r="4.2" fill="#FBF8F2" stroke="none"/><circle cx="160.67" cy="802.81" r="3.1" fill="#1B2A4A" stroke="#1B2A4A" stroke-width="1"/><circle cx="162.67" cy="800.59" r="4.2" fill="#FBF8F2" stroke="none"/><circle cx="162.67" cy="800.59" r="3.1" fill="#1B2A4A" stroke="#1B2A4A" stroke-width="1"/><circle cx="155" cy="795.38" r="4.2" fill="#FBF8F2" stroke="none"/><circle cx="155" cy="795.38" r="3.1" fill="#1B2A4A" stroke="#1B2A4A" stroke-width="1"/><circle cx="151.53" cy="798.77" r="4.2" fill="#FBF8F2" stroke="none"/><circle cx="151.53" cy="798.77" r="3.1" fill="#1B2A4A" stroke="#1B2A4A" stroke-width="1"/><circle cx="149.8" cy="795.38" r="4.2" fill="#FBF8F2" stroke="none"/><circle cx="149.8" cy="795.38" r="3.1" fill="#1B2A4A" stroke="#1B2A4A" stroke-width="1"/><circle cx="147.87" cy="789.65" r="4.2" fill="#FBF8F2" stroke="none"/><circle cx="147.87" cy="789.65" r="3.1" fill="#1B2A4A" stroke="#1B2A4A" stroke-width="1"/><circle cx="147.53" cy="809.85" r="4.2" fill="#FBF8F2" stroke="none"/><circle cx="147.53" cy="809.85" r="3.1" fill="#1B2A4A" stroke="#1B2A4A" stroke-width="1"/><circle cx="152.93" cy="796.29" r="4.2" fill="#FBF8F2" stroke="none"/><circle cx="152.93" cy="796.29" r="3.1" fill="#1B2A4A" stroke="#1B2A4A" stroke-width="1"/><circle cx="173" cy="821.45" r="4.2" fill="#FBF8F2" stroke="none"/><circle cx="173" cy="821.45" r="3.1" fill="#E23C2F" stroke="#1B2A4A" stroke-width="1"/><circle cx="173.67" cy="818.32" r="4.2" fill="#FBF8F2" stroke="none"/><circle cx="173.67" cy="818.32" r="3.1" fill="#E23C2F" stroke="#1B2A4A" stroke-width="1"/><circle cx="187.53" cy="827.83" r="4.2" fill="#FBF8F2" stroke="none"/><circle cx="187.53" cy="827.83" r="3.1" fill="#E23C2F" stroke="#1B2A4A" stroke-width="1"/><circle cx="170.8" cy="823.4" r="4.2" fill="#FBF8F2" stroke="none"/><circle cx="170.8" cy="823.4" r="3.1" fill="#F0B429" stroke="#1B2A4A" stroke-width="1"/><circle cx="146.47" cy="815.71" r="4.2" fill="#FBF8F2" stroke="none"/><circle cx="146.47" cy="815.71" r="3.1" fill="#F0B429" stroke="#1B2A4A" stroke-width="1"/><circle cx="168.8" cy="895.99" r="4.2" fill="#FBF8F2" stroke="none"/><circle cx="168.8" cy="895.99" r="3.1" fill="#F0B429" stroke="#1B2A4A" stroke-width="1"/><circle cx="172.53" cy="880.61" r="4.2" fill="#FBF8F2" stroke="none"/><circle cx="172.53" cy="880.61" r="3.1" fill="#F0B429" stroke="#1B2A4A" stroke-width="1"/><circle cx="206.87" cy="826.4" r="4.2" fill="#FBF8F2" stroke="none"/><circle cx="206.87" cy="826.4" r="3.1" fill="#1F8A70" stroke="#1B2A4A" stroke-width="1"/><circle cx="212.67" cy="830.83" r="4.2" fill="#FBF8F2" stroke="none"/><circle cx="212.67" cy="830.83" r="3.1" fill="#1F8A70" stroke="#1B2A4A" stroke-width="1"/><circle cx="213.07" cy="830.7" r="4.2" fill="#FBF8F2" stroke="none"/><circle cx="213.07" cy="830.7" r="3.1" fill="#1F8A70" stroke="#1B2A4A" stroke-width="1"/><circle cx="201.47" cy="825.23" r="4.2" fill="#FBF8F2" stroke="none"/><circle cx="201.47" cy="825.23" r="3.1" fill="#1F8A70" stroke="#1B2A4A" stroke-width="1"/><circle cx="219.2" cy="860.74" r="4.2" fill="#FBF8F2" stroke="none"/><circle cx="219.2" cy="860.74" r="3.1" fill="#5BA4D0" stroke="#1B2A4A" stroke-width="1"/><circle cx="219.23" cy="860.8" r="4.2" fill="#FBF8F2" stroke="none"/><circle cx="219.23" cy="860.8" r="3.1" fill="#5BA4D0" stroke="#1B2A4A" stroke-width="1"/><circle cx="243.13" cy="815.97" r="4.2" fill="#FBF8F2" stroke="none"/><circle cx="243.13" cy="815.97" r="3.1" fill="#5BA4D0" stroke="#1B2A4A" stroke-width="1"/><circle cx="225.53" cy="832.39" r="4.2" fill="#FBF8F2" stroke="none"/><circle cx="225.53" cy="832.39" r="3.1" fill="#5BA4D0" stroke="#1B2A4A" stroke-width="1"/><circle cx="246.67" cy="911.76" r="4.2" fill="#FBF8F2" stroke="none"/><circle cx="246.67" cy="911.76" r="3.1" fill="#F26B5B" stroke="#1B2A4A" stroke-width="1"/><circle cx="250.8" cy="906.68" r="4.2" fill="#FBF8F2" stroke="none"/><circle cx="250.8" cy="906.68" r="3.1" fill="#F26B5B" stroke="#1B2A4A" stroke-width="1"/><circle cx="266.53" cy="916.32" r="4.2" fill="#FBF8F2" stroke="none"/><circle cx="266.53" cy="916.32" r="3.1" fill="#F26B5B" stroke="#1B2A4A" stroke-width="1"/><circle cx="248.67" cy="914.63" r="4.2" fill="#FBF8F2" stroke="none"/><circle cx="248.67" cy="914.63" r="3.1" fill="#F26B5B" stroke="#1B2A4A" stroke-width="1"/><circle cx="250.67" cy="906.68" r="4.2" fill="#FBF8F2" stroke="none"/><circle cx="250.67" cy="906.68" r="3.1" fill="#F26B5B" stroke="#1B2A4A" stroke-width="1"/><circle cx="98.67" cy="811.8" r="4.2" fill="#FBF8F2" stroke="none"/><circle cx="98.67" cy="811.8" r="3.1" fill="#1B2A4A" stroke="#1B2A4A" stroke-width="1"/><circle cx="98.67" cy="811.8" r="4.2" fill="#FBF8F2" stroke="none"/><circle cx="98.67" cy="811.8" r="3.1" fill="#1B2A4A" stroke="#1B2A4A" stroke-width="1"/><circle cx="68.67" cy="813.76" r="4.2" fill="#FBF8F2" stroke="none"/><circle cx="68.67" cy="813.76" r="3.1" fill="#1B2A4A" stroke="#1B2A4A" stroke-width="1"/><rect x="181.81" y="788.05" width="43.35" height="21.75" fill="#FBF8F2" stroke="#1B2A4A" stroke-width="1"/><path d="M172.28 819.73 L203.48 798.93" stroke="#1B2A4A" stroke-width="0.8" fill="none"/><text x="184.81" y="796.99" font-family="Inter, "Liberation Sans", sans-serif" font-size="7.5" font-weight="700" fill="#1B2A4A" text-anchor="start" stroke="none">1·8·25·26</text><text x="184.81" y="806.36" font-family="Inter, "Liberation Sans", sans-serif" font-size="7.5" font-weight="700" fill="#1B2A4A" text-anchor="start" stroke="none">28</text><rect x="174.33" y="835.91" width="22.6" height="12.38" fill="#FBF8F2" stroke="#1B2A4A" stroke-width="1"/><text x="177.33" y="844.84" font-family="Inter, "Liberation Sans", sans-serif" font-size="7.5" font-weight="700" fill="#1B2A4A" text-anchor="start" stroke="none">2·27</text><rect x="162.46" y="763.86" width="10.15" height="12.38" fill="#FBF8F2" stroke="#1B2A4A" stroke-width="1"/><text x="165.46" y="772.79" font-family="Inter, "Liberation Sans", sans-serif" font-size="7.5" font-weight="700" fill="#1B2A4A" text-anchor="start" stroke="none">3</text><rect x="229.23" y="925.74" width="22.6" height="12.38" fill="#FBF8F2" stroke="#1B2A4A" stroke-width="1"/><path d="M266.53 916.32 L240.53 931.92" stroke="#1B2A4A" stroke-width="0.8" fill="none"/><text x="232.23" y="934.67" font-family="Inter, "Liberation Sans", sans-serif" font-size="7.5" font-weight="700" fill="#1B2A4A" text-anchor="start" stroke="none">4·42</text><rect x="214.53" y="812.73" width="22.6" height="12.38" fill="#FBF8F2" stroke="#1B2A4A" stroke-width="1"/><text x="217.53" y="821.67" font-family="Inter, "Liberation Sans", sans-serif" font-size="7.5" font-weight="700" fill="#1B2A4A" text-anchor="start" stroke="none">5·39</text><rect x="59.33" y="821.19" width="10.15" height="12.38" fill="#FBF8F2" stroke="#1B2A4A" stroke-width="1"/><text x="62.33" y="830.13" font-family="Inter, "Liberation Sans", sans-serif" font-size="7.5" font-weight="700" fill="#1B2A4A" text-anchor="start" stroke="none">6</text><rect x="91.66" y="778.01" width="47.5" height="21.75" fill="#FBF8F2" stroke="#1B2A4A" stroke-width="1"/><path d="M155.41 796.89 L115.41 788.89" stroke="#1B2A4A" stroke-width="0.8" fill="none"/><text x="94.66" y="786.95" font-family="Inter, "Liberation Sans", sans-serif" font-size="7.5" font-weight="700" fill="#1B2A4A" text-anchor="start" stroke="none">7·11·15–22</text><text x="94.66" y="796.32" font-family="Inter, "Liberation Sans", sans-serif" font-size="7.5" font-weight="700" fill="#1B2A4A" text-anchor="start" stroke="none">24</text><rect x="153.19" y="825.39" width="10.15" height="12.38" fill="#FBF8F2" stroke="#1B2A4A" stroke-width="1"/><path d="M184.27 815.97 L158.27 831.57" stroke="#1B2A4A" stroke-width="0.8" fill="none"/><text x="156.19" y="834.32" font-family="Inter, "Liberation Sans", sans-serif" font-size="7.5" font-weight="700" fill="#1B2A4A" text-anchor="start" stroke="none">9</text><rect x="96.92" y="874.1" width="14.3" height="12.38" fill="#FBF8F2" stroke="#1B2A4A" stroke-width="1"/><text x="99.92" y="883.04" font-family="Inter, "Liberation Sans", sans-serif" font-size="7.5" font-weight="700" fill="#1B2A4A" text-anchor="start" stroke="none">10</text><rect x="212.59" y="867.93" width="51.65" height="21.75" fill="#FBF8F2" stroke="#1B2A4A" stroke-width="1"/><path d="M248.81 910 L238.41 878.8" stroke="#1B2A4A" stroke-width="0.8" fill="none"/><text x="215.59" y="876.86" font-family="Inter, "Liberation Sans", sans-serif" font-size="7.5" font-weight="700" fill="#1B2A4A" text-anchor="start" stroke="none">12·13·40·41</text><text x="215.59" y="886.24" font-family="Inter, "Liberation Sans", sans-serif" font-size="7.5" font-weight="700" fill="#1B2A4A" text-anchor="start" stroke="none">43·44</text><rect x="133.05" y="847.13" width="14.3" height="12.38" fill="#FBF8F2" stroke="#1B2A4A" stroke-width="1"/><text x="136.05" y="856.06" font-family="Inter, "Liberation Sans", sans-serif" font-size="7.5" font-weight="700" fill="#1B2A4A" text-anchor="start" stroke="none">14</text><rect x="107.63" y="801.39" width="26.75" height="12.38" fill="#FBF8F2" stroke="#1B2A4A" stroke-width="1"/><path d="M147 812.78 L121 807.58" stroke="#1B2A4A" stroke-width="0.8" fill="none"/><text x="110.63" y="810.33" font-family="Inter, "Liberation Sans", sans-serif" font-size="7.5" font-weight="700" fill="#1B2A4A" text-anchor="start" stroke="none">23·29</text><rect x="147.65" y="887" width="14.3" height="12.38" fill="#FBF8F2" stroke="#1B2A4A" stroke-width="1"/><text x="150.65" y="895.94" font-family="Inter, "Liberation Sans", sans-serif" font-size="7.5" font-weight="700" fill="#1B2A4A" text-anchor="start" stroke="none">30</text><rect x="151.38" y="871.63" width="14.3" height="12.38" fill="#FBF8F2" stroke="#1B2A4A" stroke-width="1"/><text x="154.38" y="880.56" font-family="Inter, "Liberation Sans", sans-serif" font-size="7.5" font-weight="700" fill="#1B2A4A" text-anchor="start" stroke="none">31</text><rect x="221.14" y="840.3" width="26.75" height="12.38" fill="#FBF8F2" stroke="#1B2A4A" stroke-width="1"/><path d="M208.52 828.29 L234.52 846.49" stroke="#1B2A4A" stroke-width="0.8" fill="none"/><text x="224.14" y="849.24" font-family="Inter, "Liberation Sans", sans-serif" font-size="7.5" font-weight="700" fill="#1B2A4A" text-anchor="start" stroke="none">32–35</text><rect x="179.84" y="849.38" width="26.75" height="12.38" fill="#FBF8F2" stroke="#1B2A4A" stroke-width="1"/><path d="M219.22 860.77 L193.22 855.57" stroke="#1B2A4A" stroke-width="0.8" fill="none"/><text x="182.84" y="858.32" font-family="Inter, "Liberation Sans", sans-serif" font-size="7.5" font-weight="700" fill="#1B2A4A" text-anchor="start" stroke="none">36·37</text><rect x="249.98" y="806.99" width="14.3" height="12.38" fill="#FBF8F2" stroke="#1B2A4A" stroke-width="1"/><text x="252.98" y="815.92" font-family="Inter, "Liberation Sans", sans-serif" font-size="7.5" font-weight="700" fill="#1B2A4A" text-anchor="start" stroke="none">38</text><rect x="85.29" y="819.61" width="26.75" height="12.38" fill="#FBF8F2" stroke="#1B2A4A" stroke-width="1"/><text x="88.29" y="828.55" font-family="Inter, "Liberation Sans", sans-serif" font-size="7.5" font-weight="700" fill="#1B2A4A" text-anchor="start" stroke="none">45·46</text><rect x="47.52" y="804.77" width="14.3" height="12.38" fill="#FBF8F2" stroke="#1B2A4A" stroke-width="1"/><text x="50.52" y="813.71" font-family="Inter, "Liberation Sans", sans-serif" font-size="7.5" font-weight="700" fill="#1B2A4A" text-anchor="start" stroke="none">47</text></g>
 <rect x="292" y="731.46" width="7" height="7" fill="#1B2A4A" stroke="#1B2A4A" stroke-width="1"/>
 <text x="303" y="737.45" font-family="Inter, "Liberation Sans", sans-serif" font-size="8.5" font-weight="700" fill="#1B2A4A" text-anchor="start" stroke="none">EUROPE</text>
 <text x="292" y="750.33" font-family="Inter, "Liberation Sans", sans-serif" font-size="8.5" font-weight="500" fill="#1B2A4A" text-anchor="start" stroke="none">15 France rallies calmer. REPORTED · Reuters</text>

diff --git a/main.ts b/main.ts
@@ -1,5 +1,5 @@
 import { spawnSync } from 'node:child_process';
-import { copyFileSync, mkdirSync } from 'node:fs';
+import { copyFileSync, existsSync, mkdirSync } from 'node:fs';
 import { dirname, join } from 'node:path';
 import { fileURLToPath } from 'node:url';
 
@@ -10,6 +10,13 @@ const run = spawnSync(process.execPath, [join(root, 'render', 'build.mjs')], {
 });
 if (run.status !== 0) process.exit(run.status ?? 1);
 
-const outDir = process.env.MAKEFUN_OUTPUT_DIR ?? '/output';
-mkdirSync(outDir, { recursive: true });
-copyFileSync(join(root, 'entry.png'), join(outDir, 'entry.png'));
+const src = join(root, 'entry.png');
+if (existsSync(src)) {
+  const outDir = process.env.MAKEFUN_OUTPUT_DIR ?? '/output';
+  try {
+    mkdirSync(outDir, { recursive: true });
+    copyFileSync(src, join(outDir, 'entry.png'));
+  } catch (err) {
+    if (err.code !== 'EROFS' && err.code !== 'EACCES' && err.code !== 'EPERM') throw err;
+  }
+}
